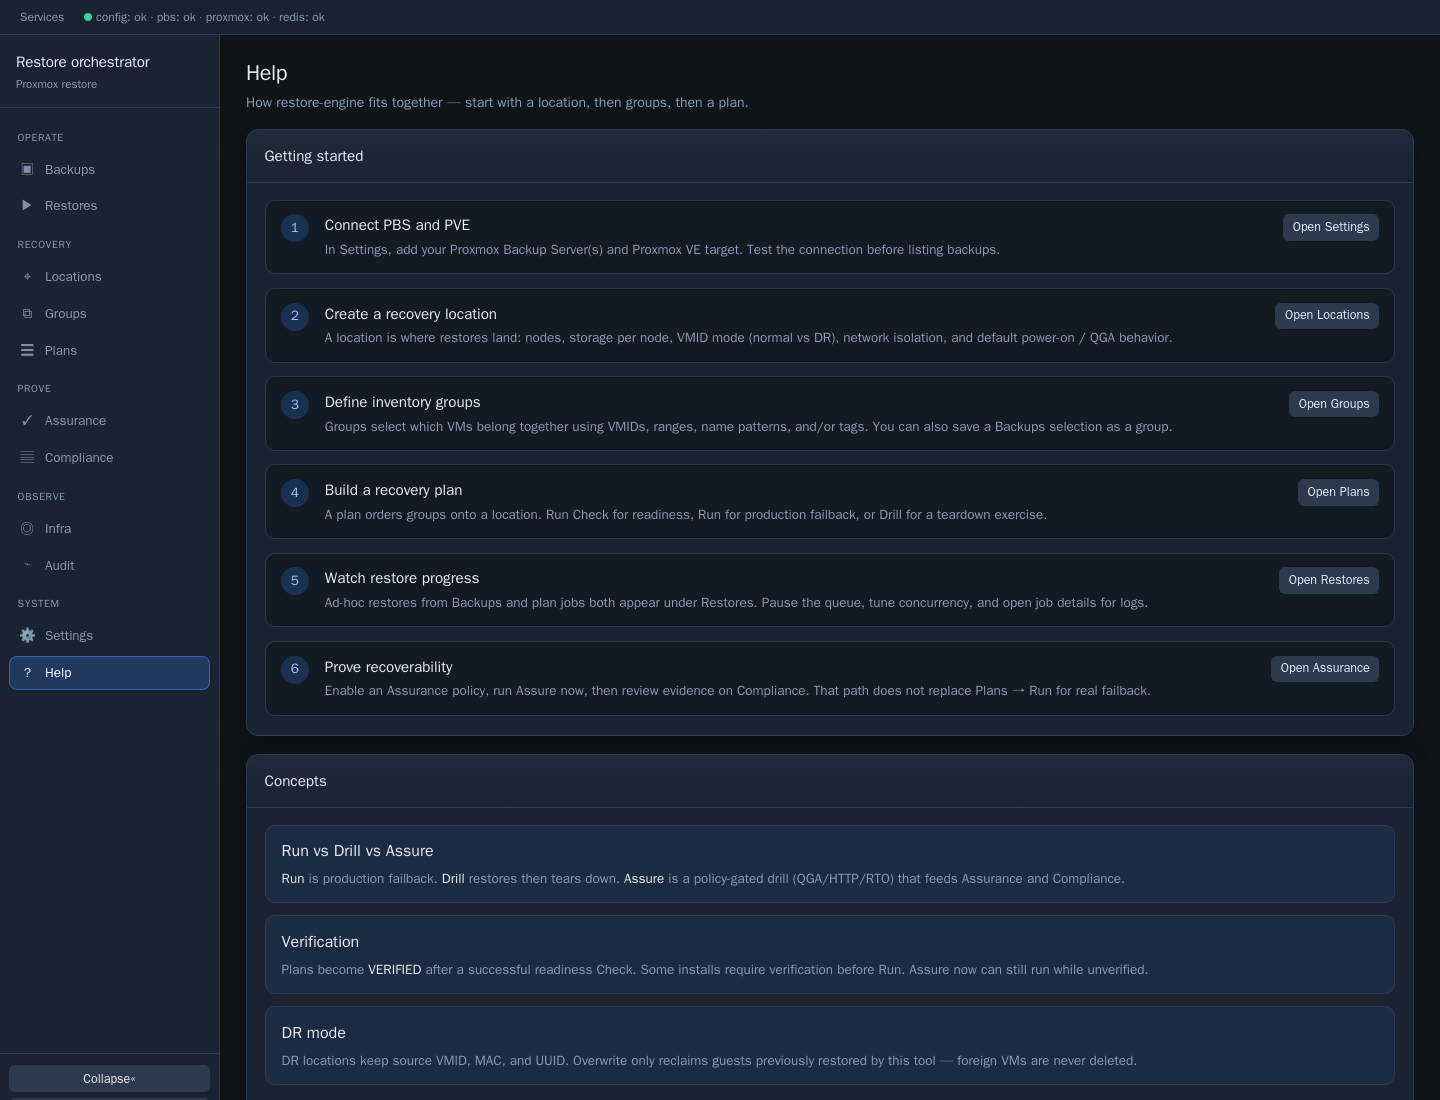
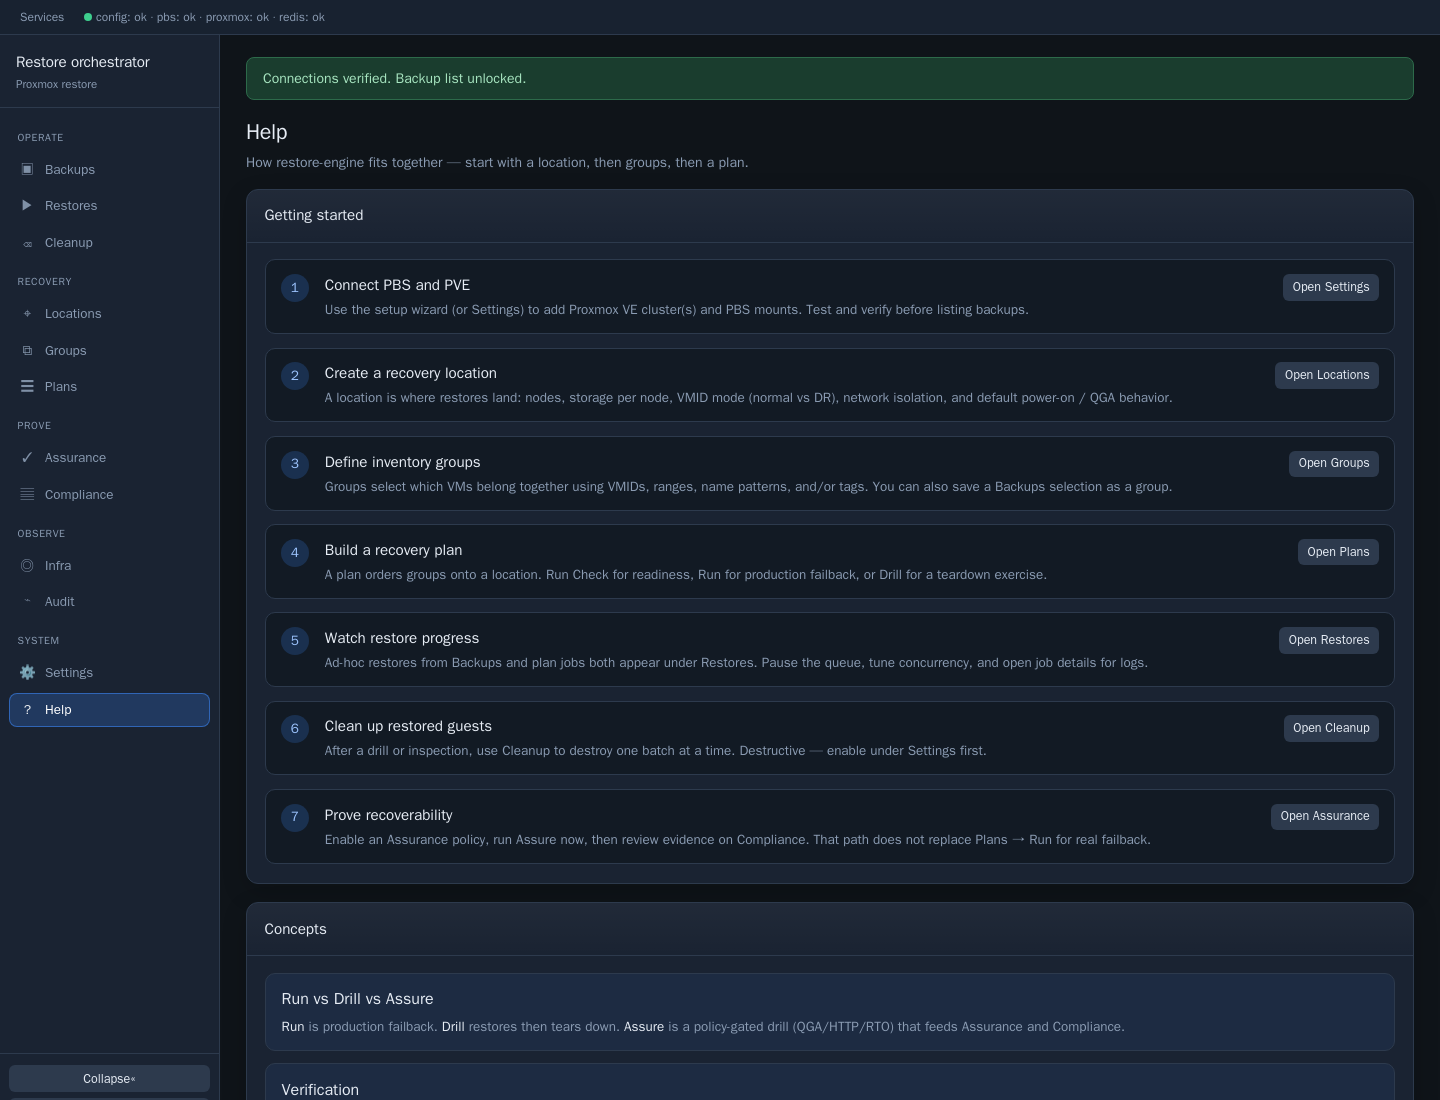
Refresh UI screenshots and tighten OpenClaw operate skill routing.
Capture Cleanup/Compliance/Backups on Mac lab hosts and steer agents to the API helper instead of docker discovery.

diff --git a/skills/restore-engine-operate/SKILL.md b/skills/restore-engine-operate/SKILL.md
@@ -1,6 +1,10 @@
 ---
 name: restore-engine-operate
-description: Operate restore-engine via HTTP API like the web UI (backups, restores, plans, cleanup, jobs). Use when restoring or managing plans from OpenClaw.
+description: >
+  Operate restore-engine via HTTP API (backups, restores, plans, cleanup, jobs).
+  Use whenever the user mentions restore-engine, PBS/PVE restores, drills, or plans.
+  Always call re-api.sh / Bearer API first — never docker inspect, redis containers,
+  or memory search to discover the deployment.
 compatibility: Cursor Agent Skills + OpenClaw. Needs network to restore-engine URL; Bearer operator token.
 metadata:
   openclaw:

diff --git a/README.md b/README.md
@@ -23,9 +23,15 @@ Lab screenshots with private fields blurred (names, IDs, form values). More in [
 </p>
 
 <p align="center">
+  <img src="docs/screenshots/ui/09-cleanup.png" alt="Cleanup batch destroy" width="900" />
+  <br />
+  <em>Cleanup — opt-in batch destroy for plan-run tagged guests</em>
+</p>
+
+<p align="center">
   <img src="docs/screenshots/ui/06-help.png" alt="In-app Help getting started" width="900" />
   <br />
-  <em>Help — Location → Group → Plan getting-started flow</em>
+  <em>Help — Location → Group → Plan getting-started flow (includes Cleanup)</em>
 </p>
 
 ## Features

diff --git a/docs/screenshots/ui/README.md b/docs/screenshots/ui/README.md
@@ -12,10 +12,13 @@ Captured from the lab UI with **private fields blurred** (names, IDs, meta rows,
 | `06-help.png` | Help |
 | `07-settings.png` | Settings |
 | `08-help-sidebar-collapsed.png` | Help with collapsed sidebar |
+| `09-cleanup.png` | Cleanup (batch destroy) |
+| `10-compliance.png` | Compliance |
+| `11-backups.png` | Backups inventory |
 
-Re-capture on the lab:
+Re-capture (Mac lab / host-network UI on `:8000`):
 
 ```bash
-cd /opt/restore-engine
-./scripts/capture-ui-shots.sh
+cd /path/to/restore-engine
+RE_UI_URL=http://127.0.0.1:8000 ./scripts/capture-ui-shots.sh
 ```
